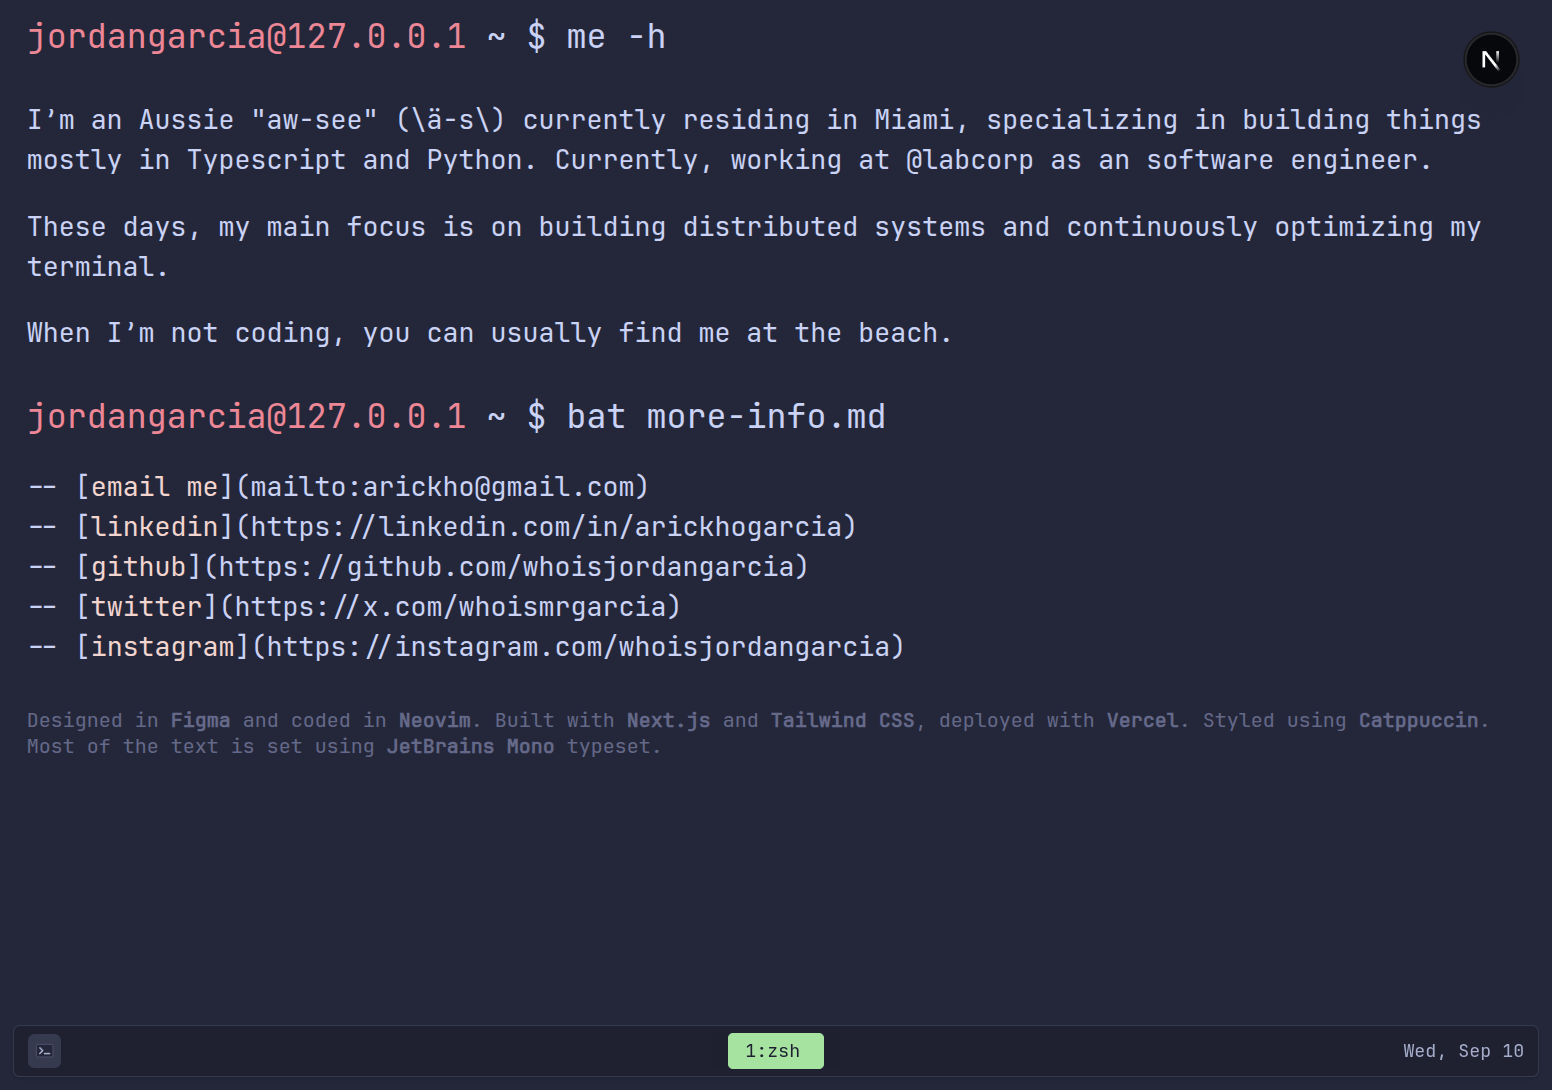
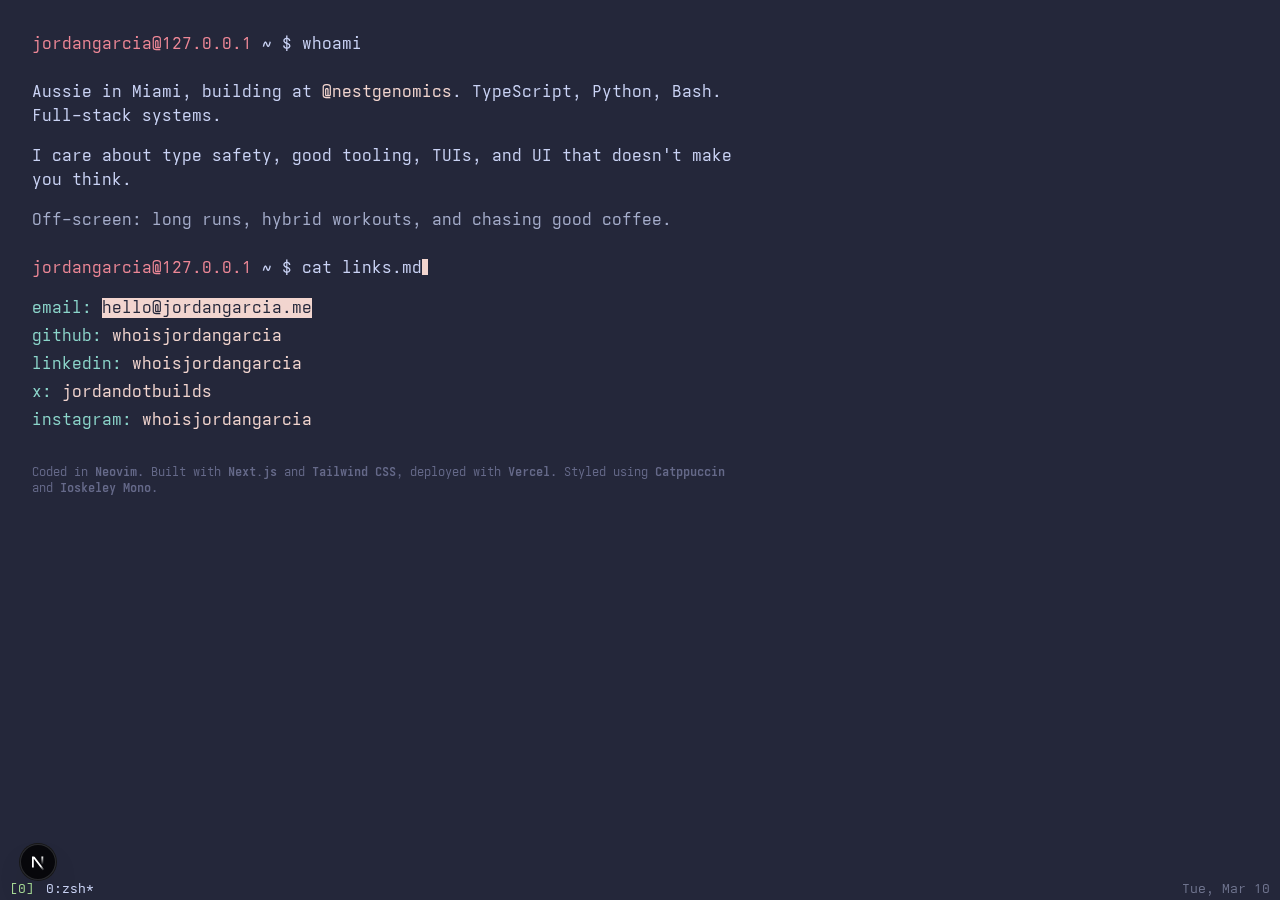
docs: update screenshot and README for terminal redesign
- Replace screenshot with current site design
- Update font references from JetBrains Mono to Ioskeley Mono
- Add Vitest to tech stack, remove duplicate lint:check script
- Update component descriptions to match simplified design

diff --git a/README.md b/README.md
@@ -4,20 +4,21 @@
   <img src="docs/jordangarcia_ss.png?raw=1" alt="Website screenshot" width="800" />
 </p>
 
-A terminal-themed personal portfolio website featuring a CLI aesthetic with animated typing effects, neofetch-style system info, and an interactive tmux-inspired status bar.
+A terminal-themed personal portfolio website featuring a CLI aesthetic with animated typing effects and an interactive tmux-inspired status bar.
 
 ## Features
 
-- **Terminal Interface** - Simulated terminal with realistic typing animations and command-line aesthetics
-- **Neofetch Display** - System info panel with ASCII art, bio, work information, and social links
-- **Tmux Status Bar** - Interactive status bar with keyboard shortcuts (Ctrl+b prefix):
-  - `?` - Help panel
-  - `%` - Split window vertically
-  - `"` - Split window horizontally
-  - `c` - New window
-- **Catppuccin Theme** - Consistent color palette using the Catppuccin Mocha theme
-- **Analytics** - Umami analytics integration for privacy-friendly tracking
-- **Dotfiles Endpoint** - Serves boot script from GitHub dotfiles repository
+- **Terminal Interface** — Simulated terminal with realistic typing animations and command-line aesthetics
+- **Animated Content** — Staggered link reveal, terminal-style hover (color inversion)
+- **Tmux Status Bar** — Interactive status bar with keyboard shortcuts (Ctrl+b prefix):
+  - `?` — Help panel
+  - `%` — Split window vertically
+  - `"` — Split window horizontally
+  - `c` — New window
+  - `d` — Detach
+- **Catppuccin Theme** — Consistent color palette using the Catppuccin Macchiato theme
+- **Analytics** — Umami analytics integration for privacy-friendly tracking
+- **Dotfiles Endpoint** — Serves boot script from GitHub dotfiles repository
 
 ## Tech Stack
 
@@ -27,12 +28,12 @@ A terminal-themed personal portfolio website featuring a CLI aesthetic with anim
 | **Framework**    | Next.js 16 (App Router)            |
 | **UI**           | React 19, TypeScript               |
 | **Styling**      | Tailwind CSS 4, Catppuccin         |
-| **Fonts**        | JetBrains Mono, Geist Sans         |
+| **Fonts**        | Ioskeley Mono, Geist Sans          |
 | **API**          | tRPC 11                            |
 | **State**        | TanStack React Query 5             |
 | **Database**     | SQLite via @libsql/client, Drizzle |
 | **Validation**   | Zod                                |
-| **Code Quality** | ESLint, Prettier                   |
+| **Code Quality** | ESLint, Prettier, Vitest           |
 | **Deployment**   | Vercel                             |
 
 ## Getting Started
@@ -98,7 +99,6 @@ bun start
 | `bun run build`          | Create production build              |
 | `bun start`              | Serve production build               |
 | `bun run lint`           | Run ESLint                           |
-| `bun run lint:check`     | Check for lint errors                |
 | `bun run typecheck`      | Run TypeScript type checker          |
 | `bun run prettier:check` | Check code formatting                |
 | `bun run prettier:write` | Format code with Prettier            |
@@ -127,75 +127,14 @@ personal-website-nextjs/
 │   ├── styles/                 # Global CSS with Tailwind
 │   └── env.js                  # Environment variable validation
 ├── public/                     # Static assets
-│   ├── fonts/                  # JetBrains Mono font files
-│   └── resume-2024.pdf         # Resume document
+│   └── fonts/                  # Ioskeley Mono font files
 ├── drizzle/                    # Database migrations
 ├── docs/                       # Documentation assets
 └── [config files]              # ESLint, Prettier, TypeScript, etc.
 ```
 
-## API Endpoints
-
-### `/api/trpc/[trpc]`
-
-tRPC API handler for server-client communication.
-
-### `/dotfiles/boot.sh`
-
-Proxies the bootstrap script from the GitHub dotfiles repository. Use with:
-
-```bash
-curl -fsSL https://jordangarcia.dev/dotfiles/boot.sh | bash
-```
-
-## Development
-
-### Code Quality
-
-Before committing changes, ensure all checks pass:
-
-```bash
-bun run prettier:check    # Check formatting
-bun run lint:check        # Check for lint errors
-bun run typecheck         # Check TypeScript types
-bun run build             # Verify build succeeds
-```
-
-Or format and fix issues:
-
-```bash
-bun run prettier:write    # Auto-format code
-bun run lint              # Run linter
-```
-
-### Component Overview
-
-#### `HomeTerminal`
-
-Main homepage component that renders the terminal interface with:
-
-- Animated prompt and command typing
-- Neofetch-style ASCII art display
-- Personal information grid (bio, work, contact, social links)
-
-#### `TerminalLine`
-
-Reusable component for animated typing effects with:
-
-- Configurable typing speed and delays
-- Cursor animation
-- Callback support for sequencing animations
-
-#### `TmuxStatusBar`
-
-Interactive status bar component featuring:
-
-- Keyboard shortcut handling (Ctrl+b prefix)
-- Multiple panel modes (help, split views)
-- Powerline-style visual design
-
 ## Acknowledgments
 
 - Built with [Create T3 App](https://create.t3.gg)
 - Color theme: [Catppuccin](https://github.com/catppuccin/catppuccin)
-- Font: [JetBrains Mono](https://www.jetbrains.com/lp/mono/)
+- Font: [Ioskeley Mono](https://github.com/ahatem/IoskeleyMono)
